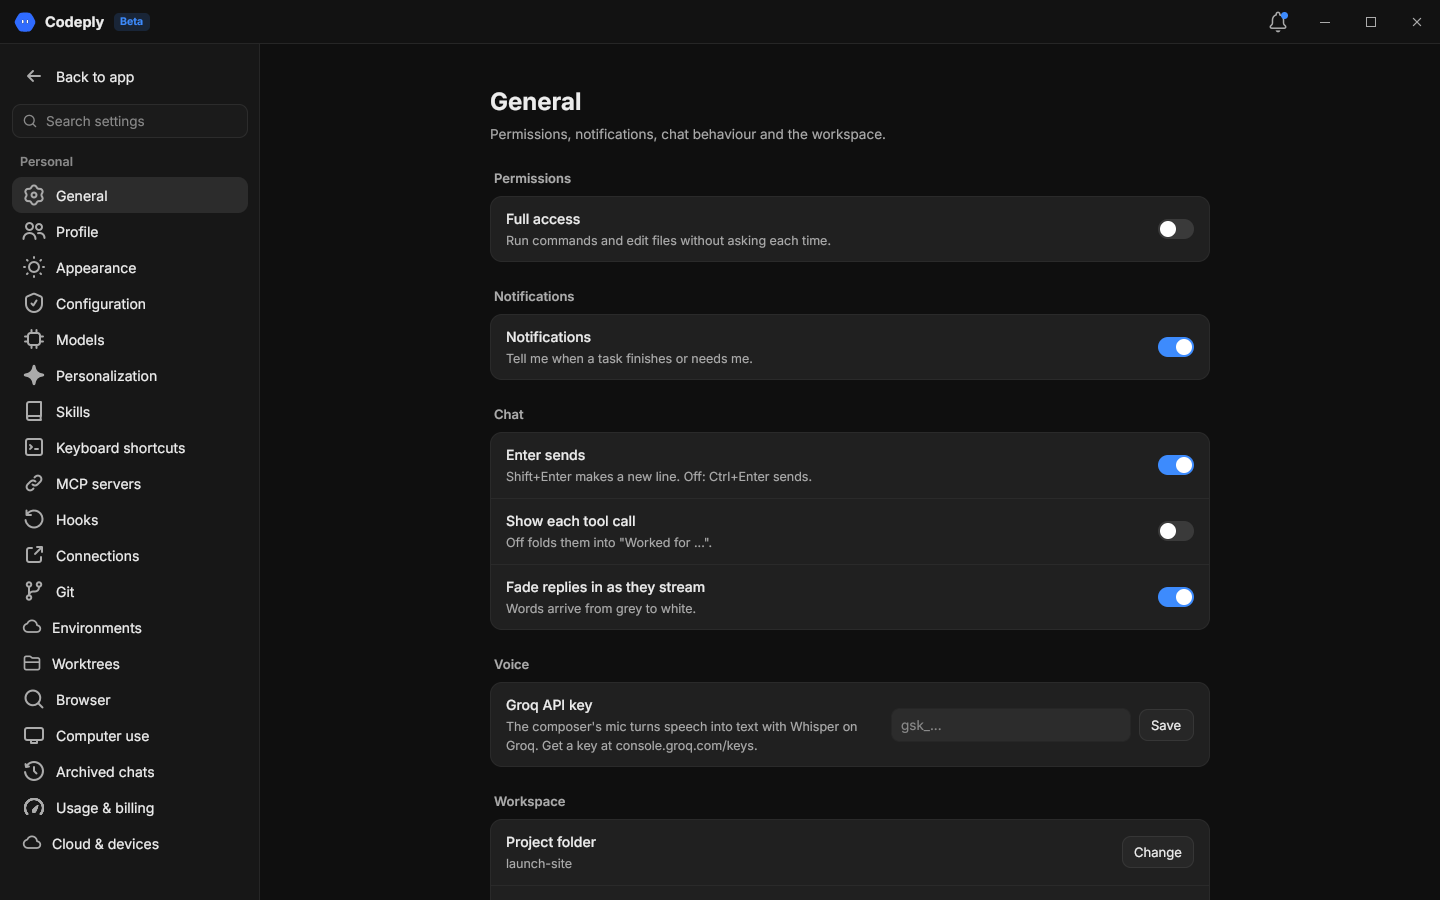
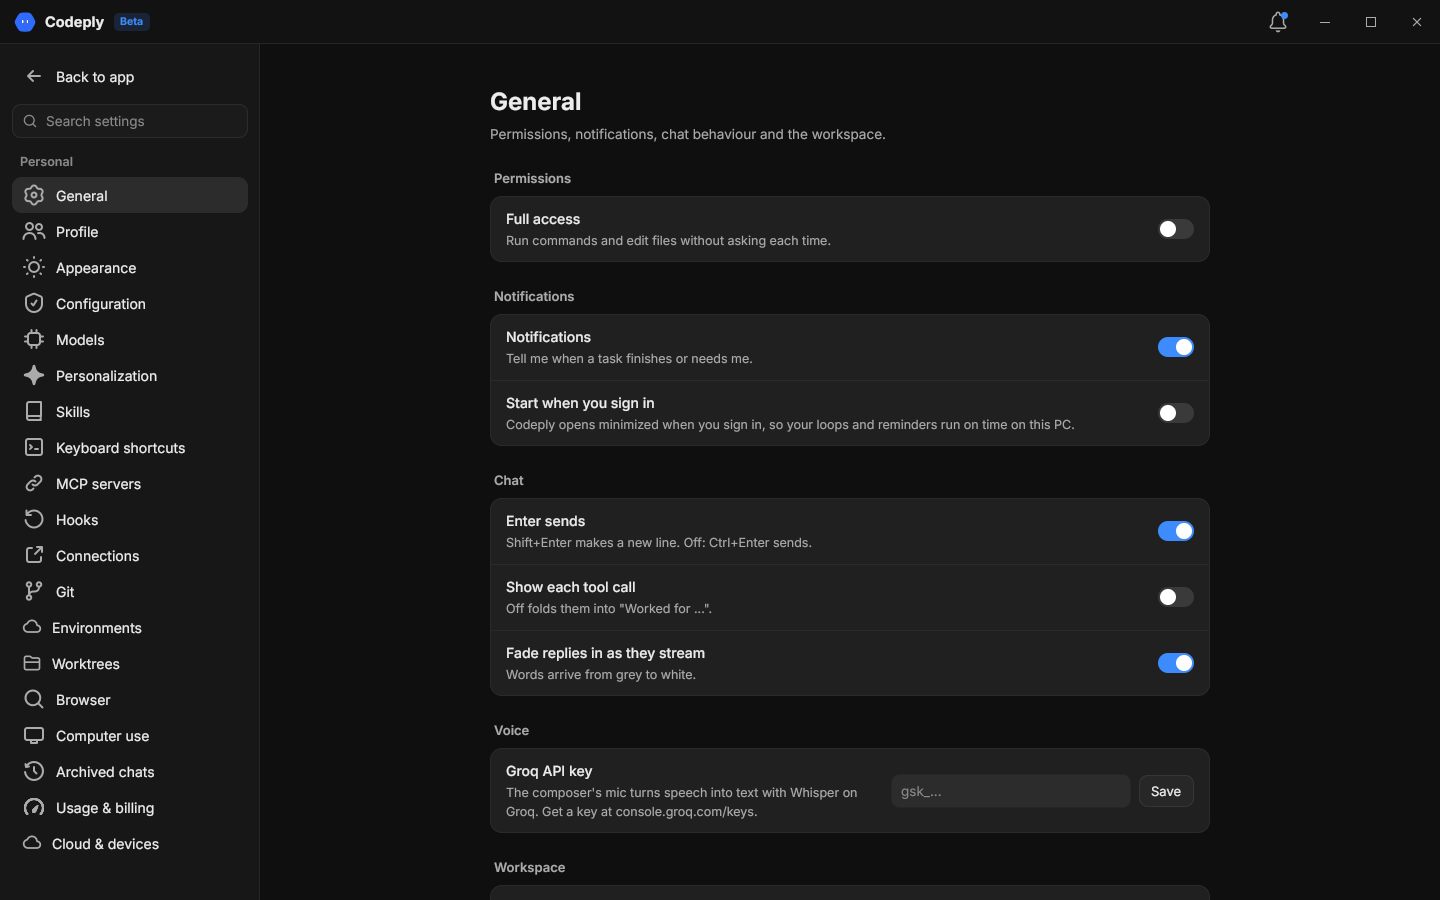
Settings: Start with Windows, so loops and reminders run on this PC
The Electron app could start with the computer (and waited in the tray); the Rust app couldn't,
so a PC's loops and reminders only ran after you opened it. Settings > General > Notifications
now has "Start with Windows" ("Open at login" on macOS, "Start when you sign in" on Linux):
Codeply opens minimized when you sign in. It uses each OS's own place: the HKCU Run key (through
reg.exe), ~/.config/autostart/codeply.desktop, or a LaunchAgents plist, starting this executable
with --hidden. Off removes the entry. Windows cross-compile checked.

Claude-Session: https://claude.ai/code/session_01MFYAyJe9m4cpQAzkUBCoYQ

diff --git a/rune-app/src/autostart.rs b/rune-app/src/autostart.rs
@@ -1,0 +1,126 @@
+//! "Start with Windows" (Settings > General): Codeply opens minimized when you sign in to the
+//! computer, so loops and reminders run on time on this PC, as the Electron app's login item
+//! does. Each OS's own place, no extra crates:
+//! - Windows: the `Run` key under HKCU (through `reg.exe`);
+//! - Linux: `~/.config/autostart/codeply.desktop`;
+//! - macOS: `~/Library/LaunchAgents/app.codeply.rune.plist`.
+//!
+//! The entry starts this same executable with `--hidden`, which opens the window minimized.
+
+use std::path::PathBuf;
+
+/// The switch's label on this OS.
+pub fn label() -> &'static str {
+    if cfg!(windows) {
+        "Start with Windows"
+    } else if cfg!(target_os = "macos") {
+        "Open at login"
+    } else {
+        "Start when you sign in"
+    }
+}
+
+/// Whether this launch came from the login entry (open minimized).
+pub fn launched_hidden() -> bool {
+    rune::extra_args().iter().any(|a| a == "--hidden")
+}
+
+fn exe() -> Option<PathBuf> {
+    std::env::current_exe().ok()
+}
+
+#[cfg(windows)]
+const RUN_KEY: &str = r"HKCU\Software\Microsoft\Windows\CurrentVersion\Run";
+
+#[cfg(windows)]
+fn reg(args: &[&str]) -> bool {
+    use std::os::windows::process::CommandExt;
+    std::process::Command::new("reg").args(args).creation_flags(0x0800_0000)
+        .stdin(std::process::Stdio::null()).stdout(std::process::Stdio::null()).stderr(std::process::Stdio::null())
+        .status().is_ok_and(|s| s.success())
+}
+
+/// Whether the login entry is there (false in headless runs and tests).
+pub fn is_on() -> bool {
+    if rune::is_headless() {
+        return false;
+    }
+    #[cfg(windows)]
+    {
+        reg(&["query", RUN_KEY, "/v", "Codeply"])
+    }
+    #[cfg(not(windows))]
+    {
+        entry_file().is_some_and(|f| f.exists())
+    }
+}
+
+/// Adds or removes the login entry. Err says why in plain words.
+pub fn set(on: bool) -> Result<(), String> {
+    let exe = exe().ok_or("Couldn't find where Codeply is installed.")?;
+    #[cfg(windows)]
+    {
+        let ok = if on {
+            let cmd = format!("\"{}\" --hidden", exe.display());
+            reg(&["add", RUN_KEY, "/v", "Codeply", "/t", "REG_SZ", "/d", &cmd, "/f"])
+        } else {
+            reg(&["delete", RUN_KEY, "/v", "Codeply", "/f"]) || !is_on()
+        };
+        if ok { Ok(()) } else { Err("Windows didn't let Codeply change its startup setting.".into()) }
+    }
+    #[cfg(not(windows))]
+    {
+        let file = entry_file().ok_or("Couldn't find your home folder.")?;
+        if !on {
+            return match std::fs::remove_file(&file) {
+                Ok(()) => Ok(()),
+                Err(e) if e.kind() == std::io::ErrorKind::NotFound => Ok(()),
+                Err(e) => Err(format!("Couldn't remove {}: {e}", file.display())),
+            };
+        }
+        if let Some(dir) = file.parent() {
+            std::fs::create_dir_all(dir).map_err(|e| format!("Couldn't make {}: {e}", dir.display()))?;
+        }
+        std::fs::write(&file, entry_text(&exe.display().to_string())).map_err(|e| format!("Couldn't write {}: {e}", file.display()))
+    }
+}
+
+#[cfg(not(windows))]
+fn entry_file() -> Option<PathBuf> {
+    let home = PathBuf::from(std::env::var_os("HOME")?);
+    if cfg!(target_os = "macos") {
+        Some(home.join("Library/LaunchAgents/app.codeply.rune.plist"))
+    } else {
+        let config = std::env::var_os("XDG_CONFIG_HOME").map(PathBuf::from).unwrap_or_else(|| home.join(".config"));
+        Some(config.join("autostart/codeply.desktop"))
+    }
+}
+
+/// The entry's text for this OS (the executable's path quoted for the format).
+#[cfg(not(windows))]
+fn entry_text(exe: &str) -> String {
+    if cfg!(target_os = "macos") {
+        let esc = exe.replace('&', "&amp;").replace('<', "&lt;").replace('>', "&gt;");
+        format!(
+            "<?xml version=\"1.0\" encoding=\"UTF-8\"?>\n<!DOCTYPE plist PUBLIC \"-//Apple//DTD PLIST 1.0//EN\" \"http://www.apple.com/DTDs/PropertyList-1.0.dtd\">\n<plist version=\"1.0\"><dict>\n  <key>Label</key><string>app.codeply.rune</string>\n  <key>ProgramArguments</key><array><string>{esc}</string><string>--hidden</string></array>\n  <key>RunAtLoad</key><true/>\n</dict></plist>\n"
+        )
+    } else {
+        // Desktop Entry Exec quoting: the path in double quotes, with \ " ` $ escaped.
+        let q: String = exe.chars().flat_map(|c| if matches!(c, '\\' | '"' | '`' | '$') { vec!['\\', c] } else { vec![c] }).collect();
+        format!("[Desktop Entry]\nType=Application\nName=Codeply\nComment=Runs your agents' loops and reminders\nExec=\"{q}\" --hidden\nX-GNOME-Autostart-enabled=true\nTerminal=false\n")
+    }
+}
+
+#[cfg(test)]
+mod tests {
+    #[cfg(not(windows))]
+    #[test]
+    fn the_login_entry_quotes_the_path() {
+        let t = super::entry_text("/opt/Codeply App/codeply");
+        if cfg!(target_os = "macos") {
+            assert!(t.contains("<string>/opt/Codeply App/codeply</string><string>--hidden</string>"));
+        } else {
+            assert!(t.contains("Exec=\"/opt/Codeply App/codeply\" --hidden"));
+        }
+    }
+}

diff --git a/rune-app/src/app.rs b/rune-app/src/app.rs
@@ -377,6 +377,8 @@ pub struct App {
     pub delete_armed: Option<String>,
     /// The specialist editor's model pick: "auto" (Haze 2 picks) or one of your models' ids.
     pub spec_model: String,
+    /// Whether Codeply opens when you sign in to the computer (autostart.rs), as last read.
+    pub autostart: bool,
     /// Whether the usage sheet is open (the button beside you at the sidebar's foot).
     pub usage_open: bool,
     /// The usage sheet's grouping (weekly or daily) and the week ("w12") or day ("d2026-10-11")
@@ -479,6 +481,7 @@ impl App {
             opened_session: String::new(),
             delete_armed: None,
             spec_model: crate::models::AUTO.into(),
+            autostart: crate::autostart::is_on(),
             code_ask: false,
             attachments: std::collections::HashMap::new(),
             agent_session: std::collections::HashMap::new(),
@@ -765,6 +768,15 @@ impl App {
 
     /// Whether a plugin, an app or an MCP server is on; flips it (sample data until the engine
     /// has an API for them).
+    /// Turns "Start with Windows" (or its macOS and Linux twin) on or off.
+    pub fn toggle_autostart(&mut self) {
+        let on = !self.autostart;
+        match crate::autostart::set(on) {
+            Ok(()) => self.autostart = on,
+            Err(e) => self.notice = Some(e),
+        }
+    }
+
     pub fn toggle_plugin(&mut self, id: &str) {
         let Some(on) = self.data.extra.plugins.iter().find(|p| p.id == id).map(|p| !p.installed) else { return };
         let op = crate::store::PluginOp::Plugin(id.to_owned(), on);
@@ -1454,7 +1466,10 @@ impl App {
         // Windows opens maximized, so the window fits any screen (Rune has no display-size API).
         if !self.launched {
             self.launched = true;
-            if cfg!(windows) && !rune::is_headless() {
+            if crate::autostart::launched_hidden() && !rune::is_headless() {
+                // Started when you signed in: out of the way, working in the background.
+                tx.minimize();
+            } else if cfg!(windows) && !rune::is_headless() {
                 tx.toggle_maximized();
             }
         }

diff --git a/rune-app/src/views/settings.rs b/rune-app/src/views/settings.rs
@@ -165,6 +165,8 @@ fn general(s: &App, t: &Theme) -> Vec<El> {
         group(t, "Notifications", vec![
             item(t, "Notifications", Some("Tell me when a task finishes or needs me."),
                 sw(t, "set-notifications", p.notifications, "Notifications", |s: &mut App| s.update_prefs(|p| p.notifications = !p.notifications))),
+            item(t, crate::autostart::label(), Some("Codeply opens minimized when you sign in, so your loops and reminders run on time on this PC."),
+                sw(t, "set-autostart", s.autostart, crate::autostart::label(), |s: &mut App| s.toggle_autostart())),
         ]),
         group(t, "Chat", vec![
             item(t, "Enter sends", Some("Shift+Enter makes a new line. Off: Ctrl+Enter sends."),

diff --git a/rune-app/src/main.rs b/rune-app/src/main.rs
@@ -8,6 +8,7 @@
 
 mod agentsync;
 mod app;
+mod autostart;
 mod art;
 mod bot;
 mod browser;
